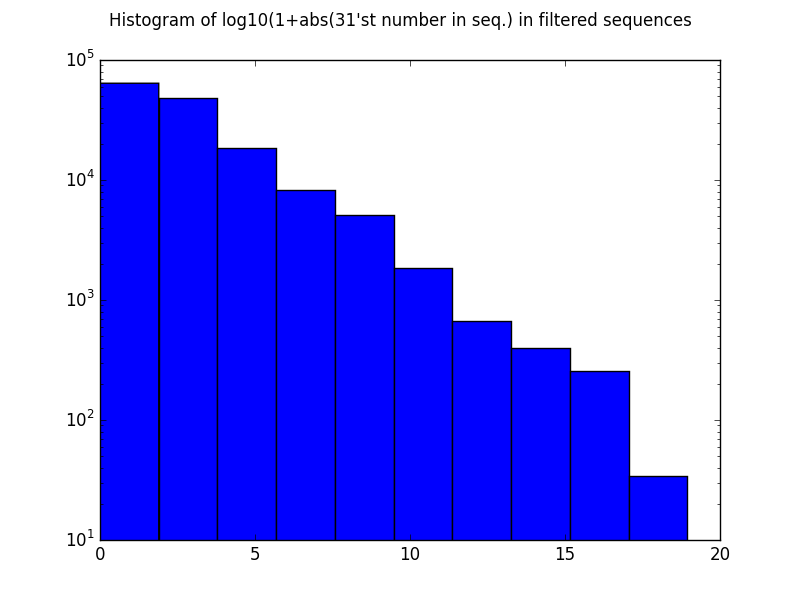
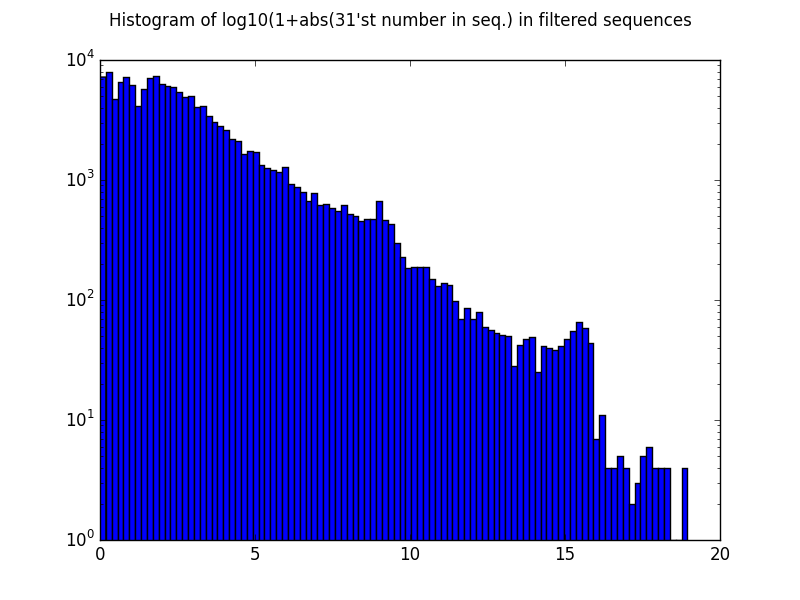
adding more bins to histograms in log-val prediction task

Changed region(s): [[0.0938, 0.12, 0.875, 0.9]]

diff --git a/prediction/lowdim_stats_figs.py b/prediction/lowdim_stats_figs.py
@@ -77,23 +77,24 @@ if __name__ == "__main__":
     print "Entropy of LSD of 31'st number conditioned on LSD of 30'th number in filtered sequences is %0.2f bits" % (1.44*entropy)
 
     fig = plt.figure()
-    plt.hist(np.log10(1+np.abs(vals_all)), log=True)
+    plt.hist(np.log10(1+np.abs(vals_all)), bins=100, log=True)
     fig.suptitle('Histogram of log10(1+abs(number in seq.)) in filtered sequences')
     fig.savefig(os.path.join(oeis_dir, 'figs', 'prediction', 'lowdim_stats', 'hist_log_values_all.png'))
     fig = plt.figure()
-    plt.hist(np.log10(1+np.abs(vals_29)), log=True)
+    plt.hist(np.log10(1+np.abs(vals_29)), bins=100, log=True)
     fig.suptitle("Histogram of log10(1+abs(30'th number in seq.) in filtered sequences")
     fig.savefig(os.path.join(oeis_dir, 'figs', 'prediction', 'lowdim_stats', 'hist_log_values_30th.png'))
     fig = plt.figure()
-    plt.hist(np.log10(1+np.abs(vals_30)), log=True)
+    plt.hist(np.log10(1+np.abs(vals_30)), bins=100, log=True)
     fig.suptitle("Histogram of log10(1+abs(31'st number in seq.) in filtered sequences")
     fig.savefig(os.path.join(oeis_dir, 'figs', 'prediction', 'lowdim_stats', 'hist_log_values_31st.png'))
     fig = plt.figure()
-    H, x, y = np.histogram2d(np.log10(1+np.abs(vals_29)), np.log10(1+np.abs(vals_30)))
+    H, x, y = np.histogram2d(np.log10(1+np.abs(vals_29)), np.log10(1+np.abs(vals_30)), bins=100)
     plt.imshow(np.log10(H), interpolation='nearest')
     fig.suptitle("Joint log-histogram of log10(1+abs(30'th val) and log10(1+abs(31'st val) in filtered sequences")
     fig.savefig(os.path.join(oeis_dir, 'figs', 'prediction', 'lowdim_stats', 'hist_joint_log_values_30th_31st.png'))
 
+    """
     fig = plt.figure()
     plt.hist(seq_lbls, log=True)
     fig.suptitle('Histogram of labels of filtered sequences')
@@ -112,5 +113,6 @@ if __name__ == "__main__":
     fig.suptitle("Joint log-histogram of log10(1+abs(30'th val) and seq. label in filtered seqs.")
     fig.tight_layout()
     fig.savefig(os.path.join(oeis_dir, 'figs', 'prediction', 'lowdim_stats', 'hist_joint_log_values_30th_label.png'))
+    """
 
     plt.show()
